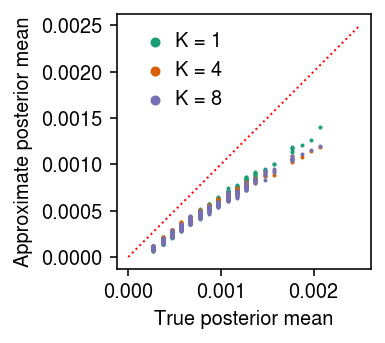
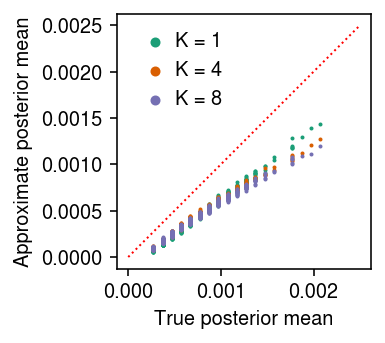
Use softplus instead of exp

diff --git a/docs/flows.html b/docs/flows.html
@@ -1,7 +1,7 @@
 <!DOCTYPE html>
 <html lang="en">
 <head>
-<!-- 2021-02-08 Mon 17:56 -->
+<!-- 2021-02-12 Fri 15:46 -->
 <meta charset="utf-8">
 <meta name="viewport" content="width=device-width, initial-scale=1">
 <title>Normalizing flows for EBPM</title>
@@ -421,12 +421,30 @@ where \(u, w, b\) are free (scalar) parameters.
 <span class="org-comment-delimiter"># </span><span class="org-comment">Important: these are needed to transform distributions with constrained</span>
 <span class="org-comment-delimiter"># </span><span class="org-comment">support to unconstrained support</span>
 
+<span class="org-comment-delimiter"># </span><span class="org-comment">y = softplus(x) = log1p(exp(x))</span>
+
+<span class="org-comment-delimiter"># </span><span class="org-comment">dy/dx = exp(x) / (1 + exp(x)) = sigmoid(x)</span>
+
 <span class="org-keyword">class</span> <span class="org-type">Softplus</span>(torch.nn.Module):
   <span class="org-keyword">def</span> <span class="org-function-name">__init__</span>(<span class="org-keyword">self</span>):
     <span class="org-builtin">super</span>().__init__()
 
   <span class="org-keyword">def</span> <span class="org-function-name">forward</span>(<span class="org-keyword">self</span>, x):
     <span class="org-keyword">return</span> torch.nn.functional.softplus(x), torch.log(torch.sigmoid(x))
+
+<span class="org-comment-delimiter"># </span><span class="org-comment">x = softplus^{-1}(y) = ln(expm1(y))</span>
+
+<span class="org-comment-delimiter"># </span><span class="org-comment">dx/dy = exp(y) / (exp(y) - 1) = 1 / (1 - exp(-y))</span>
+
+<span class="org-keyword">class</span> <span class="org-type">InverseSoftplus</span>(torch.nn.Module):
+  <span class="org-keyword">def</span> <span class="org-function-name">__init__</span>(<span class="org-keyword">self</span>):
+    <span class="org-builtin">super</span>().__init__()
+
+  <span class="org-keyword">def</span> <span class="org-function-name">forward</span>(<span class="org-keyword">self</span>, x):
+    <span class="org-comment-delimiter"># </span><span class="org-comment">c.f. https://github.com/tensorflow/probability/blob/v0.12.1/tensorflow_probability/python/math/generic.py#L456-L507    </span>
+    <span class="org-keyword">return</span> torch.log(torch.expm1(x)), x - torch.log(torch.expm1(x))
+
+<span class="org-comment-delimiter"># </span><span class="org-comment">For completeness. In preliminary experiments, Exp tends to overflow</span>
 
 <span class="org-keyword">class</span> <span class="org-type">Exp</span>(torch.nn.Module):
   <span class="org-keyword">def</span> <span class="org-function-name">__init__</span>(<span class="org-keyword">self</span>):
@@ -686,8 +704,8 @@ discretizing \(\hat{g}\) and taking weighted sums.
   <span class="org-keyword">def</span> <span class="org-function-name">__init__</span>(<span class="org-keyword">self</span>, K):
     <span class="org-builtin">super</span>().__init__()
     <span class="org-keyword">self</span>.p0 = torch.distributions.Gamma(concentration=1., rate=1.)
-    <span class="org-keyword">self</span>.pz = NormalizingFlow([Log()] + [PlanarFlow(1) <span class="org-keyword">for</span> _ <span class="org-keyword">in</span> <span class="org-builtin">range</span>(K)] + [Softplus()])
-    <span class="org-keyword">self</span>.qz = NormalizingFlow([Log()] + [PlanarFlow(1) <span class="org-keyword">for</span> _ <span class="org-keyword">in</span> <span class="org-builtin">range</span>(K)] + [Softplus()])
+    <span class="org-keyword">self</span>.pz = NormalizingFlow([InverseSoftplus()] + [PlanarFlow(1) <span class="org-keyword">for</span> _ <span class="org-keyword">in</span> <span class="org-builtin">range</span>(K)] + [Softplus()])
+    <span class="org-keyword">self</span>.qz = NormalizingFlow([InverseSoftplus()] + [PlanarFlow(1) <span class="org-keyword">for</span> _ <span class="org-keyword">in</span> <span class="org-builtin">range</span>(K)] + [Softplus()])
 
   <span class="org-keyword">def</span> <span class="org-function-name">forward</span>(<span class="org-keyword">self</span>, x, s, n_samples):
     <span class="org-variable-name">q0</span> = torch.distributions.Gamma(concentration=1 + x, rate=1 + s)
@@ -1232,7 +1250,7 @@ Fit EBPM for different choices of \(K\).
 </p>
 
 <div class="org-src-container">
-<pre class="src src-ipython"><span class="org-variable-name">run</span> = 2
+<pre class="src src-ipython"><span class="org-variable-name">run</span> = 3
 <span class="org-variable-name">lr</span> = 1e-2
 <span class="org-variable-name">n_epochs</span> = 2000
 torch.manual_seed(run)
@@ -1305,7 +1323,7 @@ Fit the model for different choices of \(K\).
 </p>
 
 <div class="org-src-container">
-<pre class="src src-ipython"><span class="org-variable-name">run</span> = 16
+<pre class="src src-ipython"><span class="org-variable-name">run</span> = 2
 <span class="org-variable-name">lr</span> = 1e-2
 <span class="org-variable-name">n_epochs</span> = 4000
 torch.manual_seed(run)
@@ -1392,13 +1410,45 @@ plt.tight_layout()
 <p><img src="figure/flows.org/ebpm-gamma-ex-pm.png" alt="ebpm-gamma-ex-pm.png">
 </p>
 </div>
+
+<p>
+Compare the approximate posterior to the true posterior for a subset of
+observations.
+</p>
+
+<div class="org-src-container">
+<pre class="src src-ipython">plt.clf()
+<span class="org-variable-name">fig</span>, <span class="org-variable-name">ax</span> = plt.subplots(1, 4)
+fig.set_size_inches(7.5, 2.5)
+
+<span class="org-keyword">for</span> i, a <span class="org-keyword">in</span> <span class="org-builtin">enumerate</span>(ax):
+  <span class="org-variable-name">grid</span> = np.log(np.linspace(0, 3e-3, 1000)[1:])
+  <span class="org-variable-name">q</span> = st.gamma(a=np.exp(log_inv_disp) + x[i], scale=1 / (np.exp(log_mean - log_inv_disp) + s[i]))
+  ax[i].plot(grid, q.pdf(np.exp(grid)) * np.exp(grid), lw=2, c=<span class="org-string">'k'</span>, label=<span class="org-string">'$q$'</span>)
+  <span class="org-variable-name">q0</span> = st.gamma(a=1 + x[i], scale=1 / (1 + s[i]))
+  ax[i].plot(grid, q0.pdf(np.exp(grid)) * np.exp(grid), lw=1, c=<span class="org-string">'k'</span>, ls=<span class="org-string">'--'</span>, label=<span class="org-string">'$q_0$'</span>)
+  <span class="org-keyword">with</span> torch.no_grad():
+    <span class="org-variable-name">samples</span> = models[8].qz.forward(torch.tensor(q0.rvs(size=(500, 1)), dtype=torch.<span class="org-builtin">float</span>))[0].numpy()
+  ax[i].hist(np.log(samples), bins=7, density=<span class="org-constant">True</span>, color=<span class="org-string">'0.8'</span>)
+  ax[i].set_xlabel(<span class="org-string">'$\ln(\lambda)$'</span>)
+ax[0].set_ylabel(<span class="org-string">'Density'</span>)
+ax[0].legend(frameon=<span class="org-constant">False</span>, loc=<span class="org-string">'upper left'</span>)
+fig.tight_layout()
+</pre>
+</div>
+
+
+<div class="figure">
+<p><img src="figure/flows.org/ebpm-gamma-ex-q.png" alt="ebpm-gamma-ex-q.png">
+</p>
+</div>
 </div>
 </div>
 </div>
 </div>
 <div id="postamble" class="status">
 <p class="author">Author: Abhishek Sarkar</p>
-<p class="date">Created: 2021-02-08 Mon 17:56</p>
+<p class="date">Created: 2021-02-12 Fri 15:46</p>
 <p class="validation"><a href="http://validator.w3.org/check?uri=referer">Validate</a></p>
 </div>
 </body>
